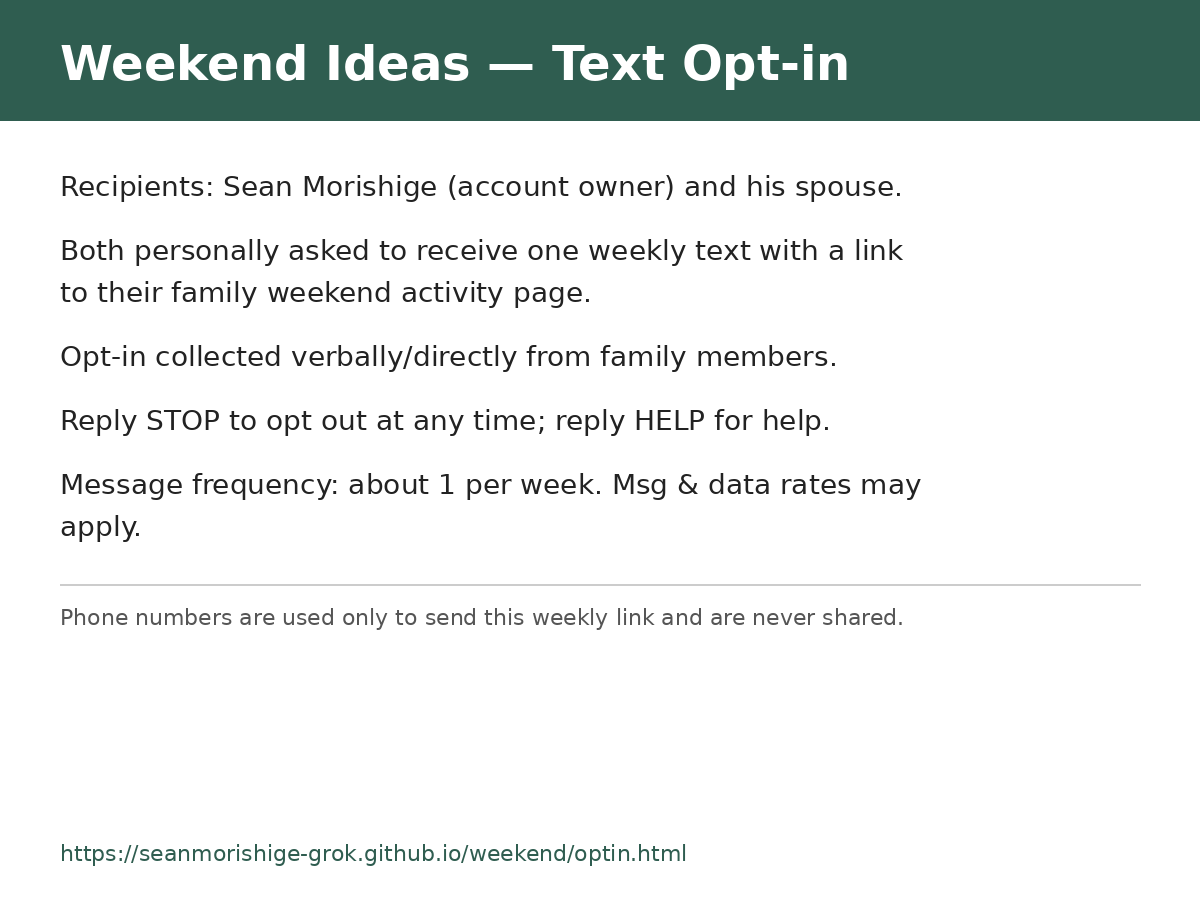
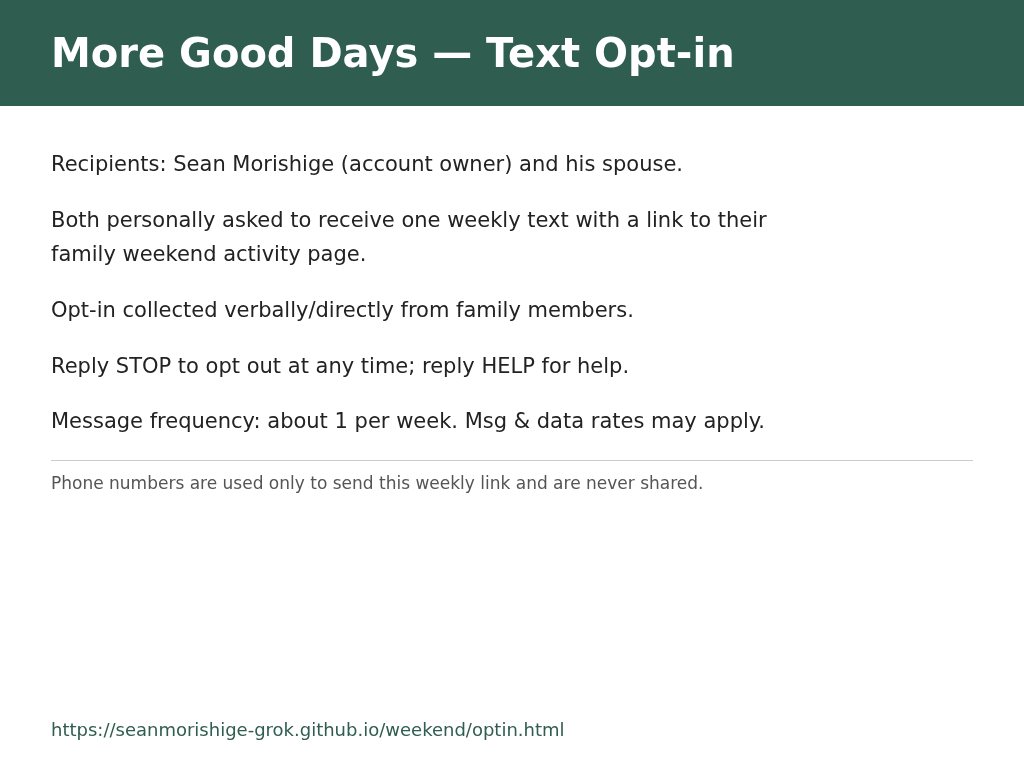
Opt-in page/image: More Good Days name

diff --git a/optin.html b/optin.html
@@ -3,14 +3,14 @@
 <head>
 <meta charset="utf-8">
 <meta name="viewport" content="width=device-width, initial-scale=1">
-<title>Weekend Ideas — Text Opt-in</title>
+<title>More Good Days — Text Opt-in</title>
 <style>
 body{font-family:system-ui,-apple-system,Segoe UI,Roboto,sans-serif;max-width:720px;margin:2rem auto;padding:0 1rem;color:#222;line-height:1.5}
 h1{color:#2f5d50}h2{margin-top:2rem}img{max-width:100%;border:1px solid #ddd;margin-top:1rem}
 </style>
 </head>
 <body>
-<h1>Weekend Ideas — Text Opt-in</h1>
+<h1>More Good Days — Text Opt-in</h1>
 <p><strong>Recipients:</strong> Sean Morishige (account owner) and his spouse.</p>
 <p>Both personally asked to receive one weekly text with a link to their family weekend activity page.</p>
 <p>Opt-in collected verbally/directly from family members.</p>
@@ -20,6 +20,6 @@ h1{color:#2f5d50}h2{margin-top:2rem}img{max-width:100%;border:1px solid #ddd;mar
 <p>Phone numbers are used only to send this weekly link and are never shared.</p>
 <p>Operator and contact details: <a href="contact.html">About &amp; Contact</a></p>
 <p><a href="./">Back to More Good Days</a></p>
-<img src="optin.png" alt="Weekend Ideas text opt-in summary">
+<img src="optin.png" alt="More Good Days text opt-in summary">
 </body>
 </html>
